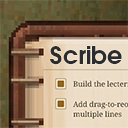
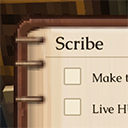
Add capability-focused Features section to README; update modicon
- README: lead with what the mod does (Tablets/Notebook/Lectern/HUD/editor)
  before the build-from-source and Atlas internals; add LibGUI to Requirements
- Replace modicon.png with refreshed 128x128 art

diff --git a/README.md b/README.md
@@ -17,9 +17,60 @@ a per-player pinned-task **HUD** that keeps your goals on screen while you play.
 > See [`ROADMAP.md`](./ROADMAP.md) for the staged plan ahead and [`CHANGELOG.md`](./CHANGELOG.md)
 > for what has shipped.
 
+## Features
+
+Scribe's writing tools unlock in step with your tech tree — you keep notes the way the era
+lets you — and everything you write feeds one always-on task overlay.
+
+### 📿 Tablets — the scratch tier
+
+Cheap handheld scratchpads you can craft in the stone age, each holding a short list (up to
+10 tasks, 1 pin). Text is carved in a bespoke **cuneiform** script by default (switch it off
+in settings for plain text).
+
+- **Clay Tablet** (red, blue, or fire clay) — fresh clay is wet and editable, dries **hard**
+  over ~2 in-game days to lock the writing, then either **re-wet in water** to revise or
+  **fire it** like pottery to keep it forever.
+- **Wax Tablet** — a beeswax-filled wooden frame that never dries or fires, so it's always
+  rewritable.
+
+### 📖 Notebook — the carried document
+
+A leather-bound book that holds your full task checklist and freeform notes in your
+inventory, with no editor lock. Each notebook keeps a private, auto-recorded **History** —
+crafted, picked up, deaths, PvP and boss kills, temporal storms weathered — so it reads like
+the journal of its owner.
+
+- **Clockmaker's Notebook** — a variant that adds a **Timer** tab for real-time and
+  in-game-time countdowns; a running timer rides along on the HUD and blinks when it fires.
+  Craftable by the Clockmaker class, or by anyone with the trader-sold **Schematic**.
+
+### 📚 Lectern — the shared block
+
+A placeable, multiplayer-safe note board. Anyone in reach can read it and check tasks off;
+one player edits at a time (server-authoritative, with a single-editor lock). It logs its
+visitors on a **Guest Book** tab — handy for a base or trader stall.
+
+### 📌 Pinned Task HUD
+
+Pin a task from any Scribe item and it appears on an always-on overlay over the game world —
+your goals stay in view without opening anything. Pins are **per-player** (yours don't touch
+anyone else's), aggregated across every tablet, notebook, and lectern you use, positioned to
+any screen edge, and checked off with a 1.5-second undo window.
+
+### ✍ Editing that gets out of your way
+
+A shared in-place editor across every writing surface: type directly into rows, **Enter** to
+add a task, drag to reorder, full caret/selection/clipboard support (including Mac
+conventions), and a **Shift + right-click quick-add** gesture that opens any item straight to
+a fresh, focused task. Configurable completion policies decide what a checked task does —
+keep, sink to bottom, unpin, or delete.
+
 ## Requirements
 
 - Vintage Story **1.22.x** (targets .NET 10)
+- **[LibGUI](https://mods.vintagestory.at/libgui)** (`gui` mod, **3.1.0**) — a hard
+  dependency; install it alongside Scribe on every client and server.
 
 ## Building from source
 
